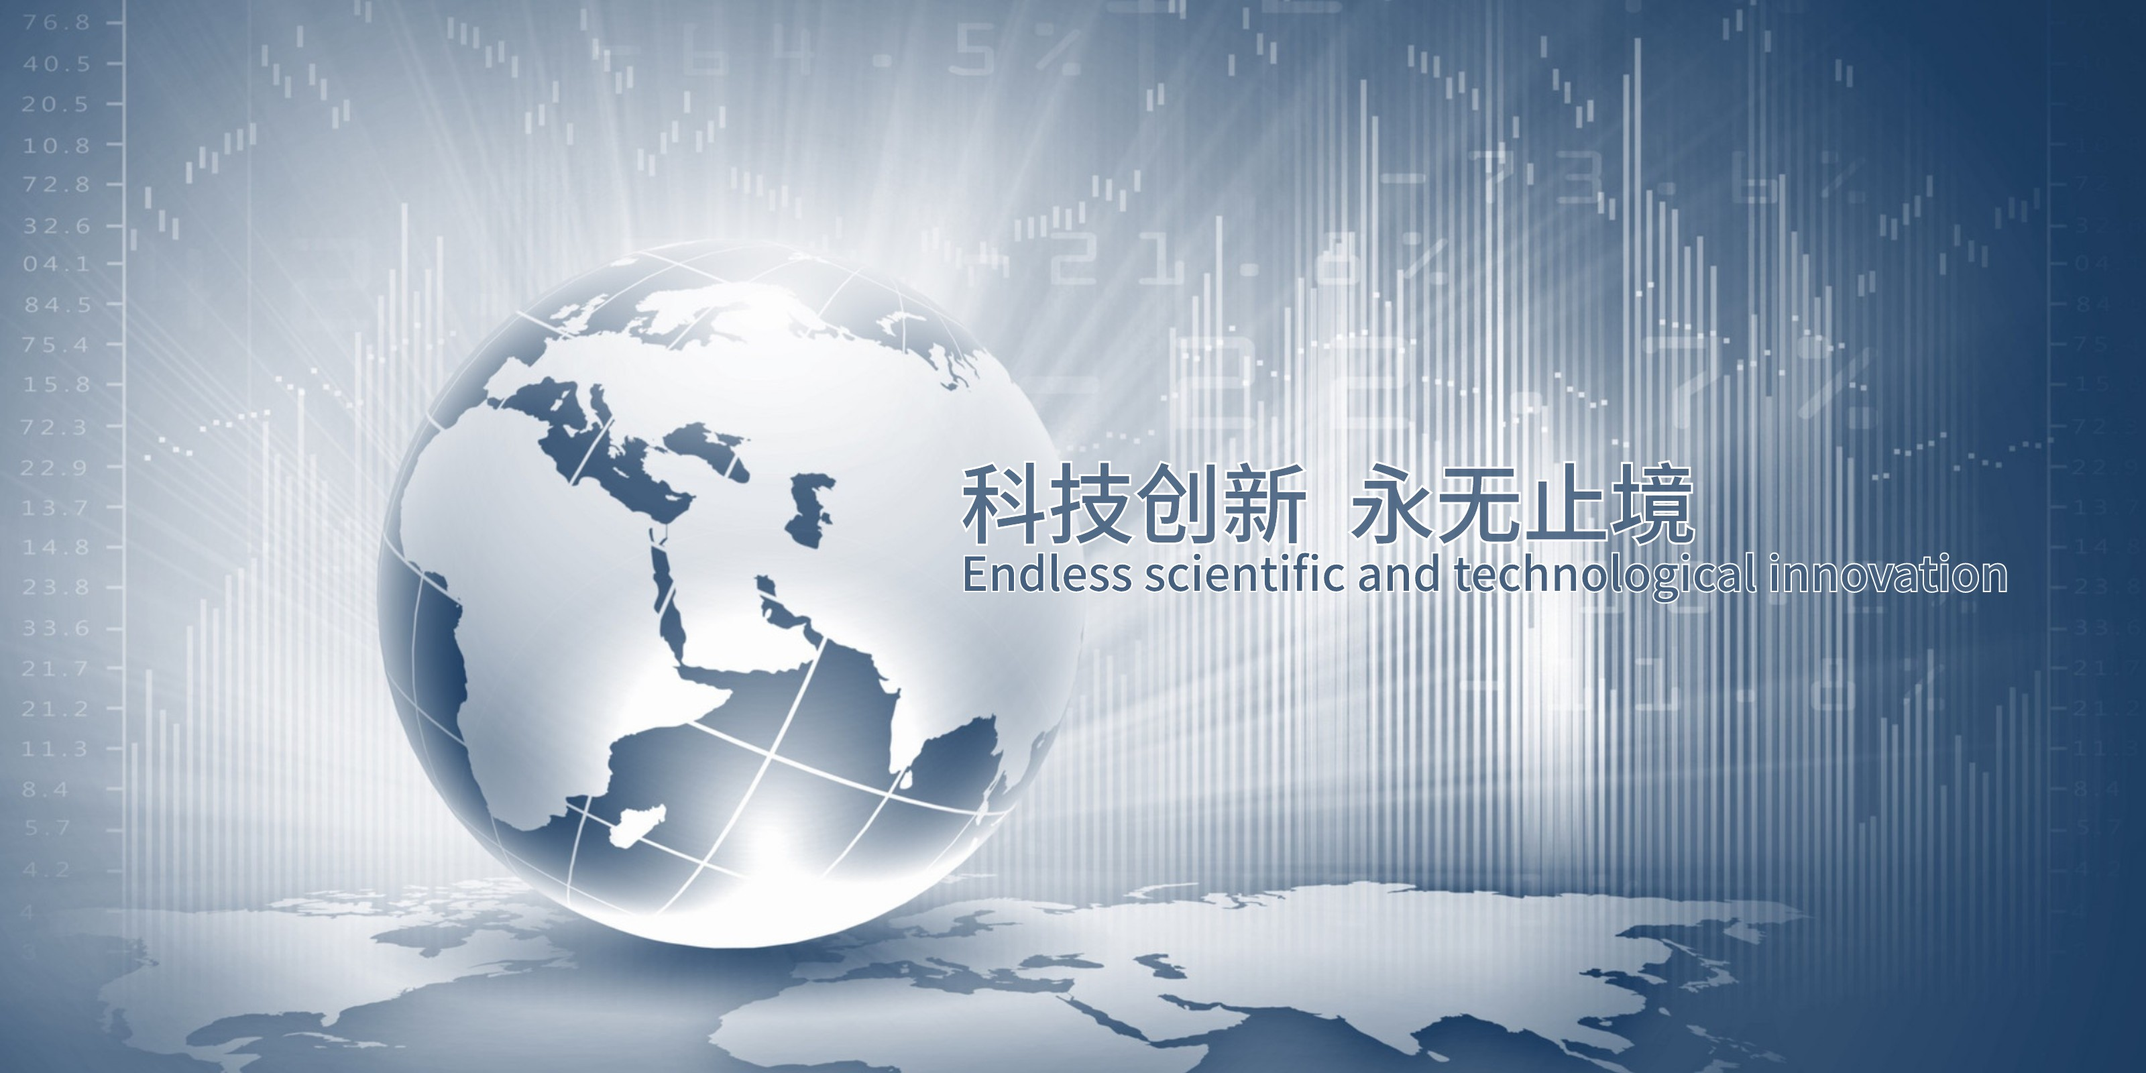
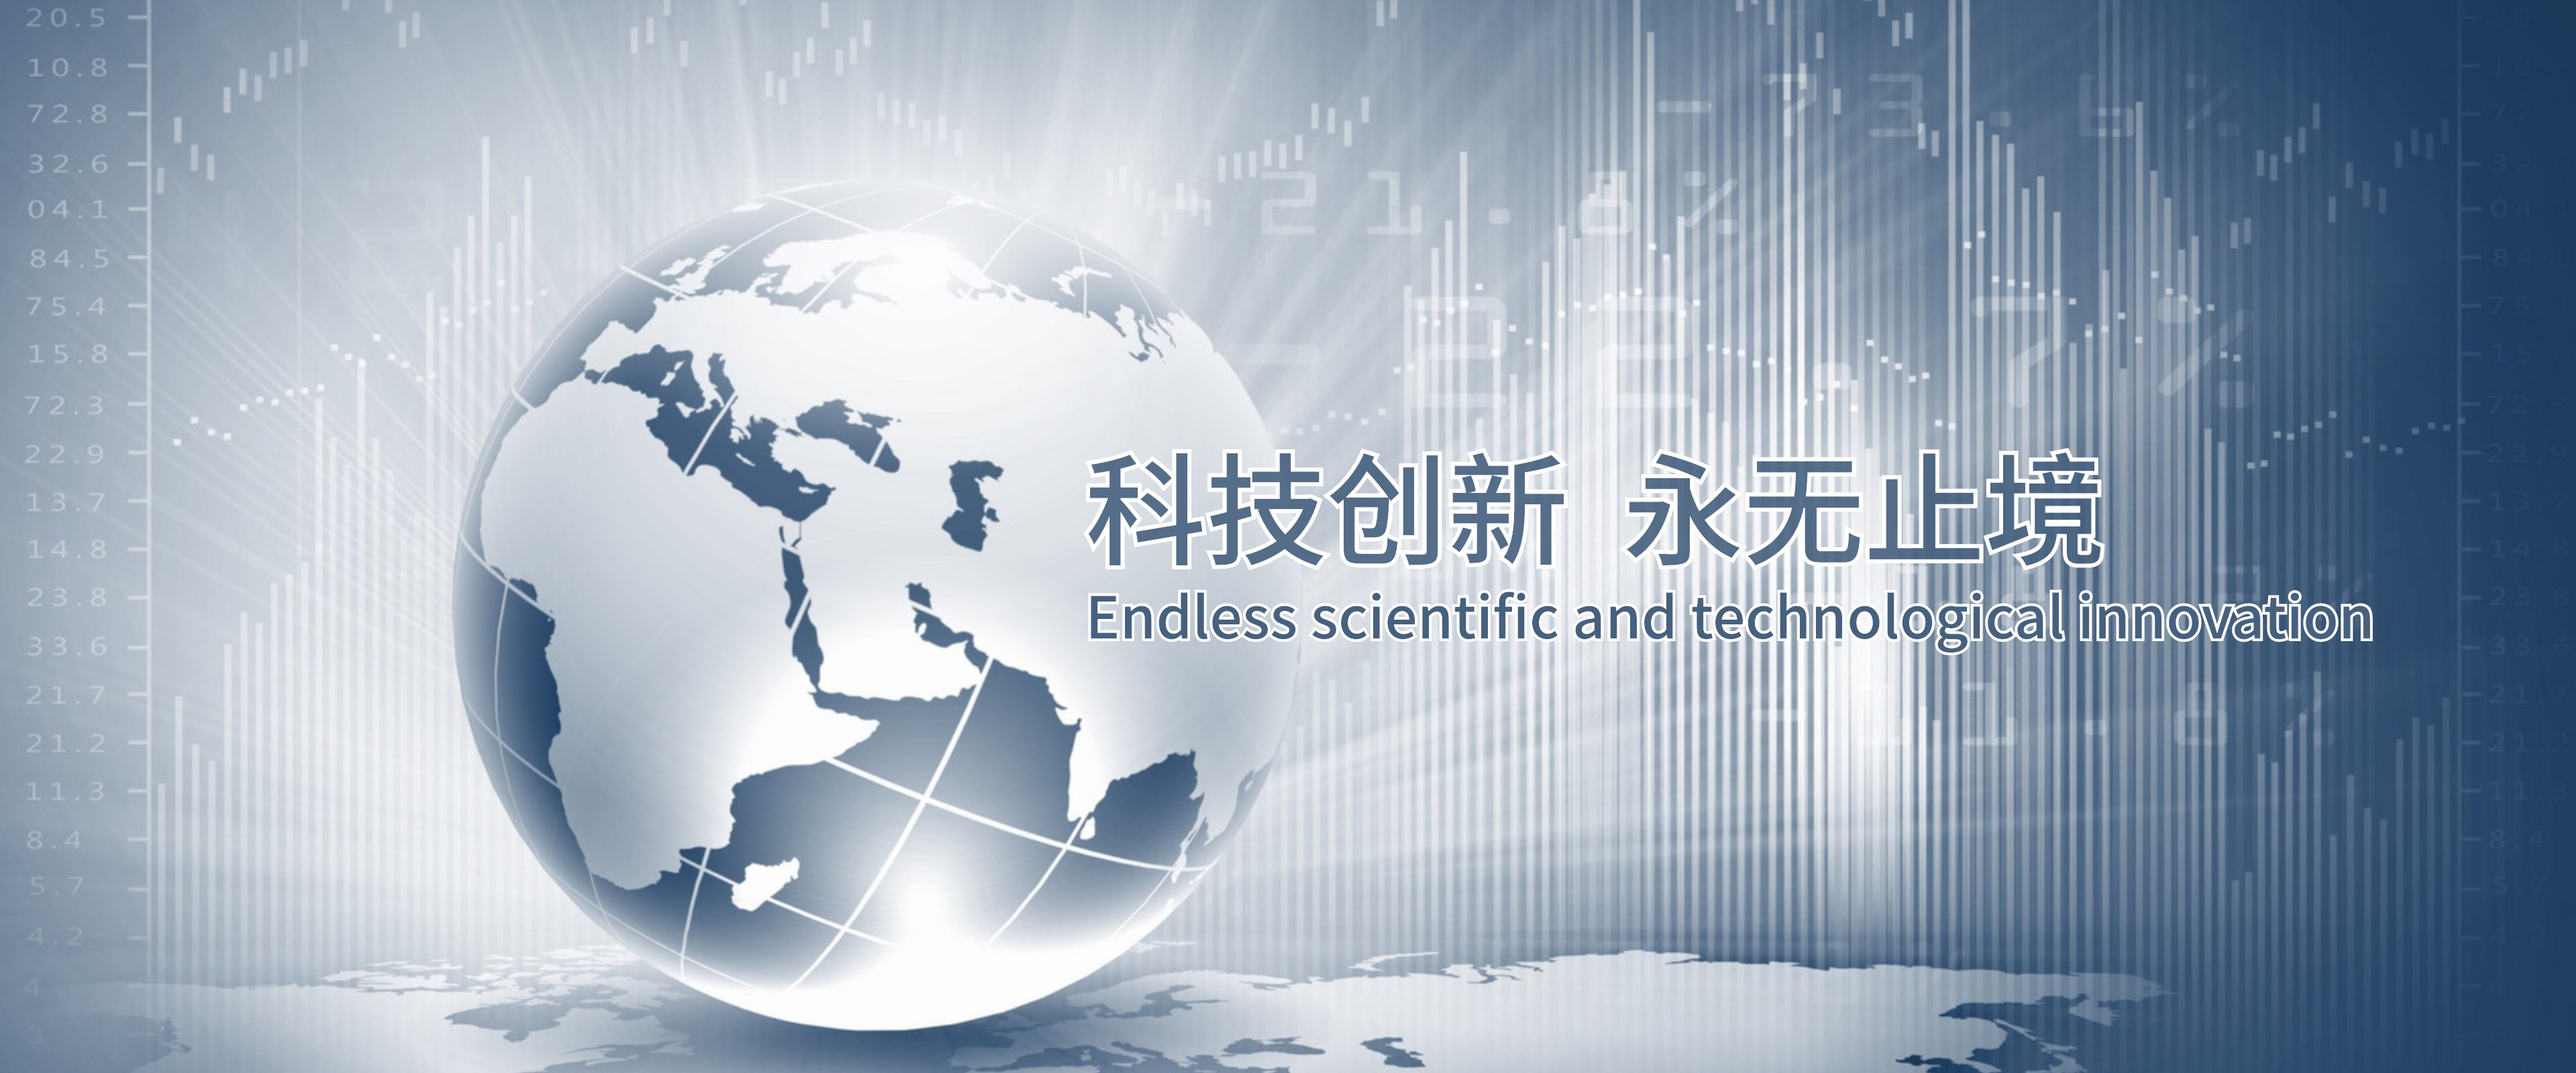
轮播图

diff --git a/pages/index.vue b/pages/index.vue
@@ -5,9 +5,9 @@ import 'swiper/css';
 
 <template>
   <!-- 轮播图 -->
-  <Swiper class="h-[50rem] max-w-[100rem] bg-sky-200">
+  <Swiper class="max-h-[50rem] max-w-[120rem] bg-sky-200">
     <SwiperSlide>
-      <img src="@/assets/images/banner01.jpg" alt="Banner01" />
+      <img src="@/assets/images/banner01.jpg" alt="Banner01" class="" />
     </SwiperSlide>
     <SwiperSlide>Slide 2</SwiperSlide>
   </Swiper>
